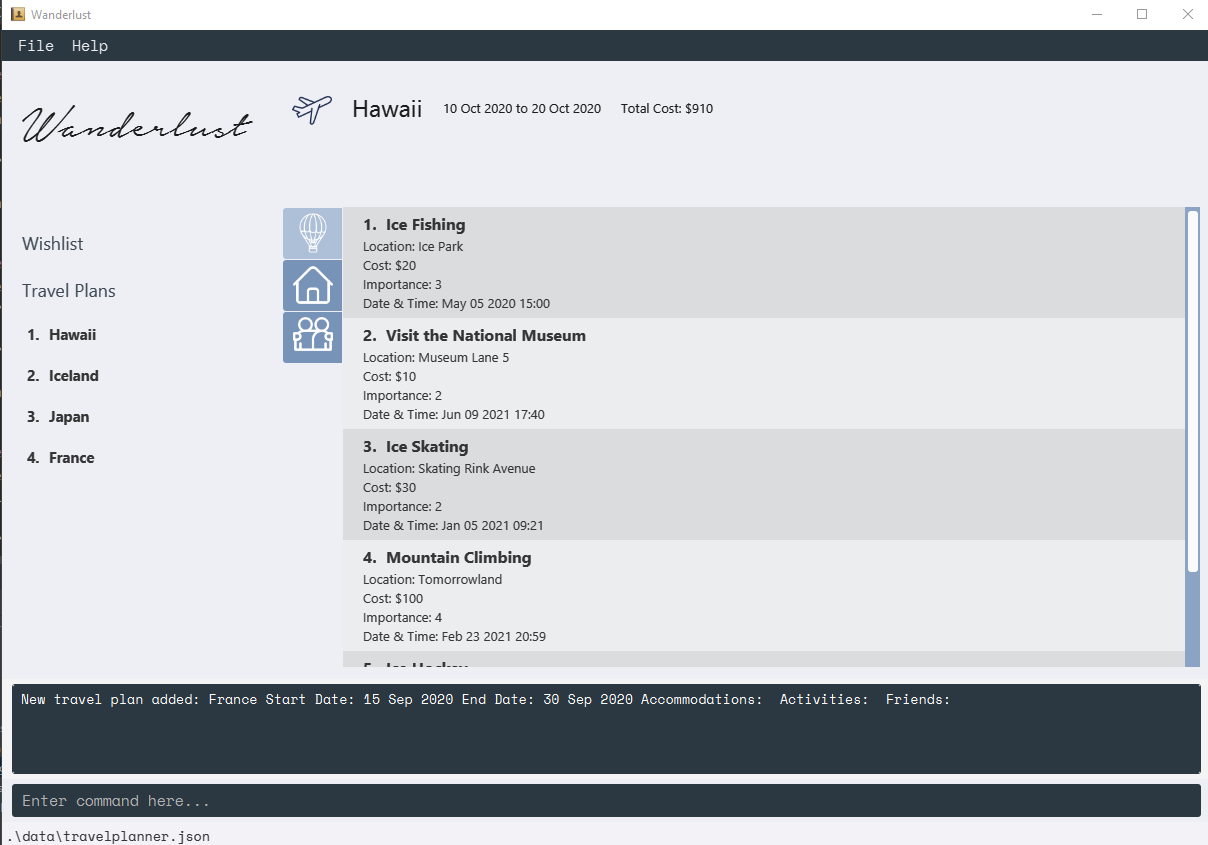
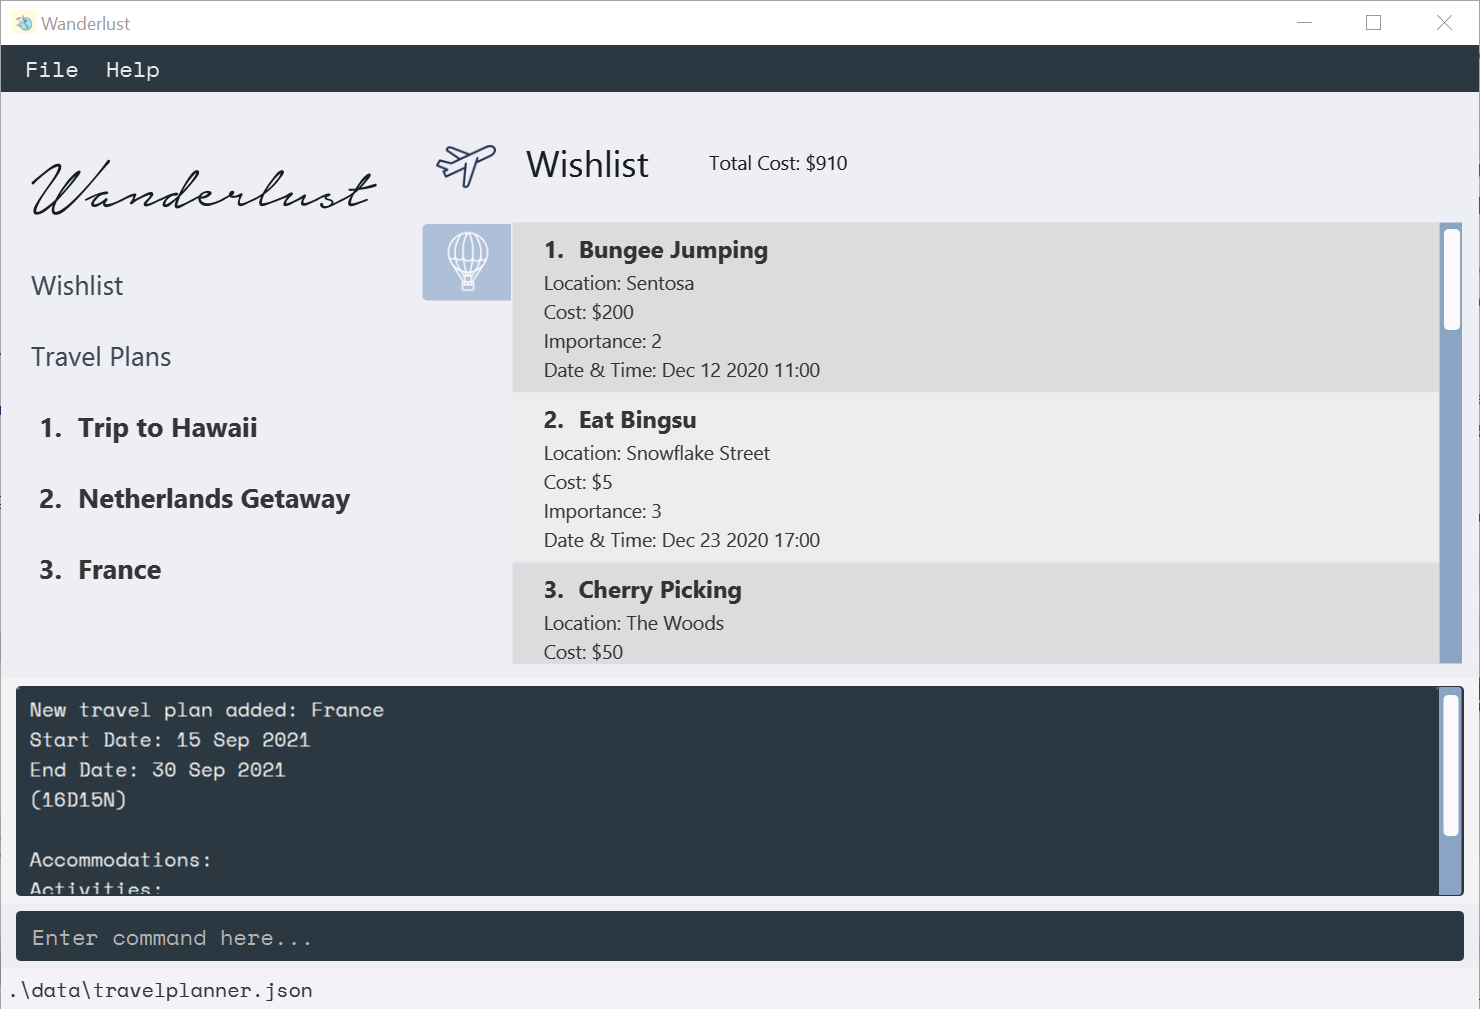
Add and update images in UserGuide

diff --git a/docs/UserGuide.md b/docs/UserGuide.md
@@ -276,7 +276,7 @@ Format of date is in YYYY-MM-DD.
 
 Format: `add -travelplan n/NAME sd/START_DATE ed/END_DATE`
 
-Example: `add -travelplan n/France sd/2020-09-15 ed/2020-09-30`
+Example: `add -travelplan n/France sd/2021-09-15 ed/2021-09-30`
 
 ![](images/WanderlustScreenshots/AddFranceTravelplan.png)
 
@@ -405,9 +405,9 @@ Finds activities in the travel plan/wishlist in the current directory whose name
 
 Format: `find -activity KEYWORD [MORE_KEYWORDS]`
 
-Example: `find -activity ice`
+Example: `find -activity bungee visit eat`
 
-![](images/WanderlustScreenshots/FindActivityIce.png)
+![](images/WanderlustScreenshots/FindActivity.png)
 
 
 ### 2. Finding accommodations (L)
@@ -515,6 +515,8 @@ This command is applicable to Activity list, Accommodation list and Friend list.
 Format: `sort -OBJECT name`
 
 Example: `sort -friend name`
+
+![](images/WanderlustScreenshots/SortFriendName.png)
 
 ### 6. Sorting by passport (L)
 
